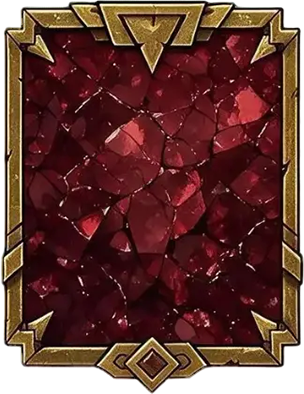
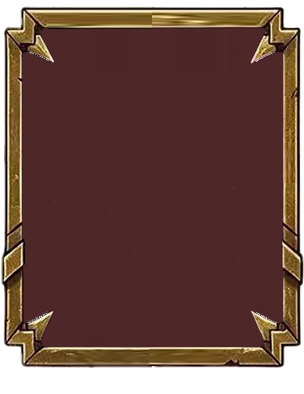
更新商店与自动制造 UI、地图 Prefab，并新增标题/士兵图标资源与 SPEC。

diff --git a/Gravedigger2026/Assets/Scripts/UI/ShopStageRootView.cs b/Gravedigger2026/Assets/Scripts/UI/ShopStageRootView.cs
@@ -47,6 +47,12 @@ namespace Gravedigger2026.UI
         private const int ShopConfirmSortingOrder = 201;
         private const int MaxOwnedEquipIcons = 6;
 
+        /// <summary>Unsold OfferSlot root Image: opaque pure white (UI-026).</summary>
+        private static readonly Color OfferSlotAvailableColor = Color.white;
+
+        /// <summary>Sold/disabled ColorTint: gray RGB only, alpha must stay 1 (no fade).</summary>
+        private static readonly Color OfferSlotSoldDisabledColor = new Color(0.78431374f, 0.78431374f, 0.78431374f, 1f);
+
         [SerializeField] private Canvas _canvas;
         [SerializeField] private Text _spiritText;
         [SerializeField] private Text _equipSummaryText;
@@ -426,12 +432,11 @@ namespace Gravedigger2026.UI
                 slotRect.offsetMax = Vector2.zero;
 
                 var slotBg = GetOrAdd<Image>(slot);
-                slotBg.color = new Color(0.15f, 0.18f, 0.23f, 0.95f);
+                slotBg.color = OfferSlotAvailableColor;
                 slotBg.raycastTarget = true;
 
                 var buyButton = GetOrAdd<Button>(slot);
-                buyButton.transition = Selectable.Transition.ColorTint;
-                buyButton.targetGraphic = slotBg;
+                ConfigureOfferSlotBuyButton(buyButton, slotBg);
 
                 var iconGo = EnsureChild("Icon", slot.transform);
                 var iconRect = iconGo.GetComponent<RectTransform>();
@@ -607,15 +612,16 @@ namespace Gravedigger2026.UI
                 var isSold = offer.IsSold;
 
                 slotUi.SoldText.gameObject.SetActive(isSold && !isEmpty);
-                slotUi.BuyButton.interactable = !isEmpty && !isSold;
 
-                var slotBg = slotUi.Root.GetComponent<Image>();
+                var slotBg = slotUi.Root != null ? slotUi.Root.GetComponent<Image>() : null;
+                ConfigureOfferSlotBuyButton(slotUi.BuyButton, slotBg);
                 if (slotBg != null)
                 {
-                    slotBg.color = offer.Category == ShopPoolItemCategory.A
-                        ? new Color(0.15f, 0.18f, 0.23f, 0.95f)
-                        : new Color(0.2f, 0.15f, 0.28f, 0.95f);
+                    // Base stays opaque white; sold look comes from ColorTint DisabledColor (alpha=1).
+                    slotBg.color = OfferSlotAvailableColor;
                 }
+
+                slotUi.BuyButton.interactable = !isEmpty && !isSold;
 
                 if (isEmpty)
                 {
@@ -1277,6 +1283,28 @@ namespace Gravedigger2026.UI
             var go = new GameObject(name, typeof(RectTransform));
             go.transform.SetParent(host, false);
             return go;
+        }
+
+        private static void ConfigureOfferSlotBuyButton(Button button, Image targetGraphic)
+        {
+            if (button == null)
+            {
+                return;
+            }
+
+            button.transition = Selectable.Transition.ColorTint;
+            if (targetGraphic != null)
+            {
+                button.targetGraphic = targetGraphic;
+            }
+
+            var colors = button.colors;
+            colors.normalColor = Color.white;
+            colors.highlightedColor = new Color(0.9607843f, 0.9607843f, 0.9607843f, 1f);
+            colors.pressedColor = new Color(0.78431374f, 0.78431374f, 0.78431374f, 1f);
+            colors.selectedColor = new Color(0.9607843f, 0.9607843f, 0.9607843f, 1f);
+            colors.disabledColor = OfferSlotSoldDisabledColor;
+            button.colors = colors;
         }
 
         private static T GetOrAdd<T>(GameObject go) where T : Component

diff --git a/Gravedigger2026/Assets/Scripts/Gameplay/AutoManufacture/AutoMfgSoldierCardView.cs b/Gravedigger2026/Assets/Scripts/Gameplay/AutoManufacture/AutoMfgSoldierCardView.cs
@@ -12,7 +12,7 @@ namespace Gravedigger2026.Gameplay.AutoManufacture
         public const float CardHeight = 200f;
 
         [SerializeField] private Image _background;
-        [SerializeField] private Text _questionMark;
+        [SerializeField] private Image _questionMark;
         [SerializeField] private Text _className;
         [SerializeField] private Text _classLevel;
         [SerializeField] private Image _idleThumbnail;
@@ -27,7 +27,7 @@ namespace Gravedigger2026.Gameplay.AutoManufacture
 
         public void RuntimeWire(
             Image background,
-            Text questionMark,
+            Image questionMark,
             Text className,
             Text classLevel,
             Image idleThumbnail,
@@ -52,7 +52,8 @@ namespace Gravedigger2026.Gameplay.AutoManufacture
 
             if (_questionMark != null)
             {
-                _questionMark.text = "?";
+                _questionMark.enabled = true;
+                _questionMark.preserveAspect = true;
                 _questionMark.gameObject.SetActive(true);
             }
 

diff --git a/Gravedigger2026/Assets/Scripts/Gameplay/AutoManufacture/AutoManufacturePresentationController.cs b/Gravedigger2026/Assets/Scripts/Gameplay/AutoManufacture/AutoManufacturePresentationController.cs
@@ -867,12 +867,17 @@ namespace Gravedigger2026.Gameplay.AutoManufacture
             thumb.enabled = false;
             thumb.raycastTarget = false;
 
-            var q = CreateText(go.transform, "Question", "?", 42, TextAnchor.MiddleCenter);
-            var qRt = q.GetComponent<RectTransform>();
+            var qGo = new GameObject("Question", typeof(RectTransform), typeof(Image));
+            qGo.transform.SetParent(go.transform, false);
+            var qRt = qGo.GetComponent<RectTransform>();
             qRt.anchorMin = new Vector2(0f, 0.35f);
             qRt.anchorMax = new Vector2(1f, 0.85f);
             qRt.offsetMin = Vector2.zero;
             qRt.offsetMax = Vector2.zero;
+            var q = qGo.GetComponent<Image>();
+            q.color = Color.white;
+            q.preserveAspect = true;
+            q.raycastTarget = false;
 
             var className = CreateText(go.transform, "ClassName", string.Empty, 32, TextAnchor.MiddleCenter);
             var cRt = className.GetComponent<RectTransform>();

diff --git a/SPEC_03_GameRules.md b/SPEC_03_GameRules.md
@@ -759,7 +759,7 @@ Settings click → Settings page hosting TechTree canvas (§3.13); other setting
 | UI-013 | 战斗模式选关 | 已定义（Demo 流水线） | 进入 Defend 阶段后：选 `BattleMode` + 关卡（该模式全部玩法配置）；模式1进保卫战 Prepare；模式2选 `PushMapGameplayConfig` 后进 §3.14 Prepare；验收见 §3.8 D-044 |
 | UI-014 | 玩法模式选择 | Demo 旁路 | 组件保留；**本 Demo 新建/进入不弹出**（直进 Mode2）；Mode1 入口后置；**勿与** UI-013 混淆；验收见 §3.8 D-045 |
 | UI-015 | 制造记录弹窗 | 已定义（Demo / Mode2） | Mode2 UM：「布阵」右侧「制造记录」打开只读 Modal；最近一批士兵摘要（名字/种族/职业）；空态「本批无士兵」；Mode1 **无**此入口；验收见 §3.8 D-054 |
-| UI-016 | 自动制造演出 | 已定义（Demo / Mode2） | AutoManufacture 阶段：底层全屏背景 `Title_AutoManufacture_1`（`AspectRatioFitter` EnvelopeParent 锁定长宽比铺满；其上 `Dim`）+ Step1 中央士兵行（默认 150×200，「?」42 + 职业名 32 + 其下 `Lv.{ClassLevel}` 24，横滑传送带）+ 上方 6 魔法书槽（120×160）；进入第一张从视口中心右侧一格滑入；Step2 逐兵加强后揭示：先 Taunt 一遍再循环默认 Idle（Camera+RT）；传送带左移不等 Taunt；每 3 兵加速；Step3 进 UM 后自动开布阵；0 兵跳过；Mode1 **无**；验收见 §3.8 D-055 |
+| UI-016 | 自动制造演出 | 已定义（Demo / Mode2） | AutoManufacture 阶段：底层全屏背景 `Title_AutoManufacture_1`（`AspectRatioFitter` EnvelopeParent 锁定长宽比铺满；其上 `Dim`）+ Step1 中央士兵行（默认 150×200，卡中央谜底图 `UnknownSoldier_1`（`Art/UI/Icons`）+ 职业名 32 + 其下 `Lv.{ClassLevel}` 24，横滑传送带）+ 上方 6 魔法书槽（120×160）；进入第一张从视口中心右侧一格滑入；Step2 逐兵加强后揭示：先 Taunt 一遍再循环默认 Idle（Camera+RT）；传送带左移不等 Taunt；每 3 兵加速；Step3 进 UM 后自动开布阵；0 兵跳过；Mode1 **无**；验收见 §3.8 D-055 |
 | UI-017 | 推图战斗结算 | 已定义（Demo / PushMap） | 胜负均弹：上部「胜利/失败」；中部「战斗耗时」「击杀怪物总数」；底中「继续」。失败 Continue → LevelSelectPanel；胜利 Continue → UI-018；见 §3.14 |
 | UI-018 | 推图奖励弹窗 | 已定义（Demo / PushMap） | 仅展示本场已入账：`StageExpReward` + 占领 `CaptureLoot` 汇总；`CaptureLoot` 先经 `ItemCatalogConfig` 解析为统一道具展示名/图标来源；无额外发放；底中「继续」→ 关闭后打开 LevelSelectPanel；见 §3.14 |
 | UI-019 | GM 发放列表 | 已定义（Demo GM） | Prefab `GmGrantListPanel`（InSaveShell 子级；布局对齐 UI-008）；Tools「增加主角装备」/「增加魔法书」打开；按钮文案 DisplayName（空则 Id）；装备点行→嵌套 LevelPicker（等级按钮）→`DebugGrantAtLevel`；魔法书点一次 `TryEquip`；关闭按钮；验收见 §3.8 D-061 |
@@ -769,7 +769,7 @@ Settings click → Settings page hosting TechTree canvas (§3.13); other setting
 | UI-023 | 魔法书槽弹窗 | 已定义（Demo） | InSaveShell 左下「魔法书」打开居中 Modal（同 UI-022 壳）；嵌套共享 `Assets/Prefabs/AutoManufacture/BookRow.prefab`（6×`BookSlot_0`…`_5`，120×160）；下标 **0→5 = 左→右**（与 UI-016 Step2 启动顺序相同）；每个槽位 `Icon` 从 `Resources/UI/MagicBooks/{IconAssetId}` 加载（`Resources.Load<Sprite>`，缺/空则不显示）；左键拖拽任意两槽 `SpecialEquipSlotsService.TrySwap`（含空槽=搬书）；成功立即 persist + `Changed`；左键点占用槽 → 该槽正下方浮动「删除」（空槽不出现；再点同一槽收起；拖拽开始隐藏）；点「删除」须二次确认（`ConfirmDialog`，`sortingOrder` 110）；确认后 `TryUnequip` 清该槽（**不补位**；无仓库=从当前存档删除；不可恢复）立即 persist + `Changed`；AM 演出 BookRow 订阅 `Changed` 同步；**无**独立魔法书仓库；装入仍 Tools GM `TryEquip`（UI-019）；Mode1/Mode2 均有；验收见 §3.8 D-068 / D-072 |
 | UI-024 | 运行时光标 | 已定义（Demo） | 整段 Play（Boot 登录主界面起）硬件指针 = `Assets/Art/UI/Cursor.png`；`PlayerSettings.defaultCursor` + hotspot 对齐锁尖（贴图左上）；**不**隐藏系统鼠标；Dig 圆圈仅作范围指示 |
 | UI-025 | 战斗技能图标 | 已定义（Demo / PushMap） | CombatSkillIcon：头顶瞬时 35×35 静止 0.6s 后世界 +Z 上飘 0.3s 淡出；同兵右排间距 4px；脚下持续 20×20；图标 `Resources/UI/Skills/{SkillId}`（缺图空框）；验收 D-071；Defend **无** |
-| UI-026 | Mode2 商店全屏界面 | 已定义（Demo / Mode2） | 全屏 Prefab `Assets/Prefabs/Shop/ShopStageRoot.prefab`（内容区 stretch 铺满；运行时实例化/销毁）。底层全屏背景 `Title_Shop_1`（`AspectRatioFitter` EnvelopeParent 锁定长宽比铺满；其上半透明 `ShopBackdrop` Dim；`ShopBox` 为透明内容容器）。**双入口：** ① Mode2 关卡 Stage1 `GameplayType=Shop`（`ShopStageModule`；关闭 → `TryAdvanceStage`）；② InSaveShell 左下「商店」局外 overlay（关闭回壳、不推进阶段；Shop 阶段已开则 no-op）。布局：左侧「玩家信息」（精魂总值 `SpiritEssence`、`EquipSummaryText`/`MagicBookSummaryText` 占用摘要、其下已拥有装备/魔法书 ICON；点占用 ICON 在图标下方出现「出售」+ `SellPrice`，确认后出售入账精魂，见 D-076）；右侧「待售商品」（共 6 项：slot0..2 归类 A 装备、slot3..5 归类 B 魔法书；每项显示道具图标+道具名+精魂售价，支持点击购买；图标加载同 §3.5：A→`Resources/UI/Equipment/{IconAssetId}`、B→`Resources/UI/MagicBooks/{IconAssetId}`；购买成功后该 slot 标记已售/禁用且不自动刷新）。下侧「刷新商品」按钮显示当前刷新价格并支持手动刷新递进定价；每次刷新重新生成 6 项（不足留空、不补齐）。商店在「新关卡解锁」时自动刷新一次并重置刷新价格进度。验收见 §3.8 D-075 / D-076。 |
+| UI-026 | Mode2 商店全屏界面 | 已定义（Demo / Mode2） | 全屏 Prefab `Assets/Prefabs/Shop/ShopStageRoot.prefab`（内容区 stretch 铺满；运行时实例化/销毁）。底层全屏背景 `Title_Shop_1`（`AspectRatioFitter` EnvelopeParent 锁定长宽比铺满；其上半透明 `ShopBackdrop` Dim；`ShopBox` 为透明内容容器）。**双入口：** ① Mode2 关卡 Stage1 `GameplayType=Shop`（`ShopStageModule`；关闭 → `TryAdvanceStage`）；② InSaveShell 左下「商店」局外 overlay（关闭回壳、不推进阶段；Shop 阶段已开则 no-op）。布局：左侧「玩家信息」（精魂总值 `SpiritEssence`、`EquipSummaryText`/`MagicBookSummaryText` 占用摘要、其下已拥有装备/魔法书 ICON；点占用 ICON 在图标下方出现「出售」+ `SellPrice`，确认后出售入账精魂，见 D-076）；右侧「待售商品」（共 6 项：slot0..2 归类 A 装备、slot3..5 归类 B 魔法书；每项显示道具图标+道具名+精魂售价，支持点击购买；图标加载同 §3.5：A→`Resources/UI/Equipment/{IconAssetId}`、B→`Resources/UI/MagicBooks/{IconAssetId}`；购买成功后该 slot 标记已售/禁用且不自动刷新）。**OfferSlot 着色：** 未购根 Image 恒为纯白不透明 `Color.white`；已购仅通过 ColorTint 变色（`DisabledColor` alpha=1），**禁止**半透明淡出。下侧「刷新商品」按钮显示当前刷新价格并支持手动刷新递进定价；每次刷新重新生成 6 项（不足留空、不补齐）。商店在「新关卡解锁」时自动刷新一次并重置刷新价格进度。验收见 §3.8 D-075 / D-076。 |
 | UI-027 | 登录主界面 | 已定义（Demo） | Prefab `TitleMenuPanel`（`MetaCanvas` 子级）；共享 `TitleScreenBackground`（Sprite 源 `Art/UI/Meta/Title/`）；顶中游戏名 Image `GameName`（`Title_GameName.png`）；主按钮双态（开始/继续）→ SaveSelect；**设置 → UI-028**；读取存档/开发者介绍 → Tips「还未制作」；右下版本 Text；Title BGM 随机 |
 | UI-028 | 登录设置面板 | 已定义（Demo） | Prefab `TitleSettingsPanel`（`MetaCanvas` 子级；对齐 UI-008：全屏遮罩 + 中框 + 关闭；`sortingOrder` ≥ 100）；页签首期仅 **「显示」**：分辨率列表（`Screen.resolutions` 按宽×高去重降序，文案 `1920 × 1080`）+ 显示模式三选一（窗口 / 无边框全屏 / 独占全屏）；点 **「应用」** 才 `Screen.SetResolution` 并写机台级 PlayerPrefs（关闭不提交草稿）；Boot 读盘应用；**不**挂科技树；与 UI-007 分离 |
 | UI-029 | 难度选择宿主 | 已定义（Demo） | Prefab 内 `DifficultySelectHost`（`InSaveShellPanel` 中心面）；收缩三栏普通/困难/地狱；仅普通可展开；展开后中央地图区嵌 UI-008；困难/地狱变暗或 Toast「还未制作」；难度不改玩法；进档默认打开；独立壳 Prefab `Assets/Prefabs/Meta/InSaveShellPanel.prefab`；验收 D-081 |
@@ -793,7 +793,7 @@ Settings click → Settings page hosting TechTree canvas (§3.13); other setting
 | UI-013 | Battle mode/level select | Defined (Demo pipeline) | After entering Defend: pick `BattleMode` + level (all configs for mode); Mode1 → Defend Prepare; Mode2 pick `PushMapGameplayConfig` → §3.14 Prepare; accept §3.8 D-044 |
 | UI-014 | Campaign mode select | Demo bypass | Component retained; **not shown** on this Demo create/enter (straight Mode2); Mode1 entry deferred; **not** UI-013; accept §3.8 D-045 |
 | UI-015 | Manufacture record popup | Defined (Demo / Mode2) | Mode2 UM: "Manufacture Record" to the right of Formation opens read-only Modal; last-batch summaries (name/race/class); empty 「本批无士兵」; Mode1 has **no** entry; accept §3.8 D-054 |
-| UI-016 | AutoManufacture presentation | Defined (Demo / Mode2) | AutoManufacture stage: bottom full-screen background `Title_AutoManufacture_1` (`AspectRatioFitter` EnvelopeParent keep aspect cover; `Dim` above) + Step1 center soldier row (default 150×200, "?" 42 + class name 32 + `Lv.{ClassLevel}` 24 below, conveyor scroll) + 6 MagicBook slots above (120×160); enter: first card slides from one pitch right of viewport center; Step2 amplify then reveal: Taunt once then loop default Idle (Camera+RT); conveyor does not wait for Taunt; +25% speed every 3; Step3 enter UM then auto-open Formation; 0 craft skips; Mode1 **none**; accept §3.8 D-055 |
+| UI-016 | AutoManufacture presentation | Defined (Demo / Mode2) | AutoManufacture stage: bottom full-screen background `Title_AutoManufacture_1` (`AspectRatioFitter` EnvelopeParent keep aspect cover; `Dim` above) + Step1 center soldier row (default 150×200, mystery portrait `UnknownSoldier_1` (`Art/UI/Icons`) + class name 32 + `Lv.{ClassLevel}` 24 below, conveyor scroll) + 6 MagicBook slots above (120×160); enter: first card slides from one pitch right of viewport center; Step2 amplify then reveal: Taunt once then loop default Idle (Camera+RT); conveyor does not wait for Taunt; +25% speed every 3; Step3 enter UM then auto-open Formation; 0 craft skips; Mode1 **none**; accept §3.8 D-055 |
 | UI-017 | PushMap battle settlement | Defined (Demo / PushMap) | Always on win/lose: top Victory/Defeat; mid combat time + monsters killed; bottom Continue. Fail Continue → LevelSelectPanel; Win Continue → UI-018; §3.14 |
 | UI-018 | PushMap reward popup | Defined (Demo / PushMap) | Show already-credited StageExpReward + CaptureLoot aggregate only; `CaptureLoot` first resolves through `ItemCatalogConfig` for shared display-name/icon sourcing; no extra grants; bottom Continue → LevelSelectPanel; §3.14 |
 | UI-019 | GM grant list | Defined (Demo GM) | Prefab `GmGrantListPanel` under InSaveShell (layout aligned with UI-008); Tools Grant Equipment / Grant MagicBook; label DisplayName (else Id); equipment pick → nested LevelPicker (level buttons) → `DebugGrantAtLevel`; MagicBook one click `TryEquip`; close button; accept §3.8 D-061 |
@@ -803,7 +803,7 @@ Settings click → Settings page hosting TechTree canvas (§3.13); other setting
 | UI-023 | MagicBook slots popup | Defined (Demo) | InSaveShell bottom-left MagicBook opens centered Modal (same shell as UI-022); nested shared `Assets/Prefabs/AutoManufacture/BookRow.prefab` (6×`BookSlot_0`…`_5`, 120×160); index **0→5 = left→right** (same start order as UI-016 Step2); each slot `Icon` loaded from `Resources/UI/MagicBooks/{IconAssetId}` (`Resources.Load<Sprite>`; missing/empty => hidden); LMB-drag any two slots `SpecialEquipSlotsService.TrySwap` (empty slot = move book); success persists immediately + `Changed`; LMB click occupied slot → floating Delete under that slot (empty slots hide it; click same slot again hides; BeginDrag hides); Delete requires confirm (`ConfirmDialog`, `sortingOrder` 110); confirm → `TryUnequip` clears that index (**no compact**; no warehouse = delete from current save; irreversible) persist immediately + `Changed`; AM presentation BookRow subscribes `Changed`; **no** MagicBook warehouse; grant still Tools GM `TryEquip` (UI-019); Mode1 and Mode2; accept §3.8 D-068 / D-072 |
 | UI-024 | Runtime pointer | Defined (Demo) | Whole-Play (from Boot title menu) hardware cursor = `Assets/Art/UI/Cursor.png`; `PlayerSettings.defaultCursor` + hotspot at shovel tip (texture top-left); do **not** hide OS cursor; Dig ring is range overlay only |
 | UI-025 | Combat skill icon | Defined (Demo / PushMap) | CombatSkillIcon: overhead 35×35 holds 0.6s then world +Z rise 0.3s fade; stack screen-right 4px; persist 20×20 at feet; icons `Resources/UI/Skills/{SkillId}` (missing → empty frame); accept D-071; Defend **none** |
-| UI-026 | Mode2 shop full-screen UI | Defined (Demo / Mode2) | Full-screen Prefab `Assets/Prefabs/Shop/ShopStageRoot.prefab` (content stretch-fills; runtime instantiate/destroy). Bottom full-screen background `Title_Shop_1` (`AspectRatioFitter` EnvelopeParent keep-aspect cover; semi-transparent `ShopBackdrop` Dim above; `ShopBox` is a transparent content host). **Dual entry:** (1) Mode2 Level Stage1 `GameplayType=Shop` (`ShopStageModule`; close → `TryAdvanceStage`); (2) InSaveShell bottom-left Shop overlay (close returns to shell, does not advance; no-op while Shop stage is open). Layout: left "Player Info" (`SpiritEssence`, `EquipSummaryText`/`MagicBookSummaryText`, owned equipment/MagicBook ICONs below; click occupied ICON → Sell + `SellPrice` under it, confirm to sell for Spirit, D-076); right "Shop Offers" (6 offers total: slot0..2 category A equipment, slot3..5 category B magicbooks; each shows item icon + item name + Spirit price and supports click-to-buy; successful purchase marks that slot sold/disabled and does not auto-refresh). Bottom "Refresh Offers" button shows the current refresh price and supports manual refresh-price progression; each refresh regenerates all 6 offers (leave empty if insufficient, no backfill). The shop auto-refreshes once on each "new level unlock" and resets the refresh-price progression. Accept §3.8 D-075 / D-076. |
+| UI-026 | Mode2 shop full-screen UI | Defined (Demo / Mode2) | Full-screen Prefab `Assets/Prefabs/Shop/ShopStageRoot.prefab` (content stretch-fills; runtime instantiate/destroy). Bottom full-screen background `Title_Shop_1` (`AspectRatioFitter` EnvelopeParent keep-aspect cover; semi-transparent `ShopBackdrop` Dim above; `ShopBox` is a transparent content host). **Dual entry:** (1) Mode2 Level Stage1 `GameplayType=Shop` (`ShopStageModule`; close → `TryAdvanceStage`); (2) InSaveShell bottom-left Shop overlay (close returns to shell, does not advance; no-op while Shop stage is open). Layout: left "Player Info" (`SpiritEssence`, `EquipSummaryText`/`MagicBookSummaryText`, owned equipment/MagicBook ICONs below; click occupied ICON → Sell + `SellPrice` under it, confirm to sell for Spirit, D-076); right "Shop Offers" (6 offers total: slot0..2 category A equipment, slot3..5 category B magicbooks; each shows item icon + item name + Spirit price and supports click-to-buy; successful purchase marks that slot sold/disabled and does not auto-refresh). **OfferSlot tint:** unsold root Image stays opaque pure white (`Color.white`); sold uses ColorTint RGB only (`DisabledColor` alpha=1) — **no** semi-transparent fade. Bottom "Refresh Offers" button shows the current refresh price and supports manual refresh-price progression; each refresh regenerates all 6 offers (leave empty if insufficient, no backfill). The shop auto-refreshes once on each "new level unlock" and resets the refresh-price progression. Accept §3.8 D-075 / D-076. |
 | UI-027 | Title / login menu | Defined (Demo) | Prefab `TitleMenuPanel` under `MetaCanvas`; shared `TitleScreenBackground` (sprites under `Art/UI/Meta/Title/`); top-center game-name Image `GameName` (`Title_GameName.png`); primary dual-state (Start/Continue) → SaveSelect; **Settings → UI-028**; Load save / Credits → Tips「还未制作」; bottom-right version Text; random Title BGM |
 | UI-028 | Title settings panel | Defined (Demo) | Prefab `TitleSettingsPanel` under `MetaCanvas` (align UI-008: full-screen dim + center box + close; `sortingOrder` ≥ 100); first tab **Display** only: resolution list (`Screen.resolutions` dedupe by WxH descending, label `1920 × 1080`) + window mode tri-state (Windowed / Borderless / Exclusive); **Apply** commits `Screen.SetResolution` + machine-level PlayerPrefs (Close discards draft); Boot applies saved; **no** TechTree; separate from UI-007 |
 | UI-029 | Difficulty select host | Defined (Demo) | `DifficultySelectHost` inside `InSaveShellPanel`; collapsed three columns Normal/Hard/Hell; Normal only expandable; map hosts UI-008; Hard/Hell dim or Toast; no gameplay number change; default on enter; standalone Prefab `Assets/Prefabs/Meta/InSaveShellPanel.prefab`; accept D-081 |
@@ -872,7 +872,7 @@ Manual shell state switch is **TBD** (must not equate Tools Level entry to a fiv
 | D-052 | Mode2：批结束后清空布阵，按 `PlacementOrder` + `FormationClassZone` 自动上阵（碰撞挤开）；再进 UM | P1 | 已实现（AM-06 方案 A：区内螺旋采样 + BodyRadius；`FormationClassZone` **IsoDiamond**（同 WalkSurface；废止 OBB/IsoTileYaw）；仅本批 Id；手验见 AM-08 / FZ-01～02） |
 | D-053 | Mode2 UM：隐藏手动制造；保留升级 Modal 与可编辑布阵；控制力 HUD 屏蔽；布阵内 `CompleteButton`（SoldierBar 上右，UM/Prepare 均显示；UM 接线结束阶段）；Prepare `StartBattleButton` 叠于 Complete 正上方 | P1 | 已实现（方案 C：`UpgradeManufactureStageRoot_Mode2` + `FormationEditorRoot_Mode2`；Catalog 按 CampaignMode Resolve；手验见 AM-08；Complete 见 Mode2 差分） |
 | D-054 | Mode2 UM：布阵右侧「制造记录」打开只读弹窗；展示最近一批 AutoManufacture 士兵摘要（名字/种族/职业）；0 兵空态「本批无士兵」；下一批覆盖；同档再进仍可见；Mode1 无此按钮 | P1 | 已实现（方案 A：`AutoManufactureBatchRecordService` + Mode2 Modal；`UmAssetBuilder` Mode2 追加 / 运行时 Ensure） |
-| D-055 | Mode2 AutoManufacture 演出（UI-016）：批末可见 Step1 士兵行+6 书槽；进入时第一张从视口水平中心右侧一格滑入中心；Step2 逐兵加强/单槽脉冲套该书/书槽峰值同步士兵卡 VisualStyle live preview（Camera+RT；未烘进仍「?」）/6 槽结束揭示（Taunt 一遍→循环默认 Idle）后整行左移一格（末张不再移；传送带不等 Taunt）；每 3 兵加速；播完后按 final ClassId 上阵再进 UM 并自动开布阵；0 兵 Tips+跳过演出且不自动开布阵；Mode1 无此 UI | P1 | **更新**（Step2 脉冲峰值同步 VisualStyle 预览；方案 B Camera+RT） |
+| D-055 | Mode2 AutoManufacture 演出（UI-016）：批末可见 Step1 士兵行+6 书槽；进入时第一张从视口水平中心右侧一格滑入中心；Step2 逐兵加强/单槽脉冲套该书/书槽峰值同步士兵卡 VisualStyle live preview（Camera+RT；未烘进仍谜底图 `UnknownSoldier_1`）/6 槽结束揭示（Taunt 一遍→循环默认 Idle）后整行左移一格（末张不再移；传送带不等 Taunt）；每 3 兵加速；播完后按 final ClassId 上阵再进 UM 并自动开布阵；0 兵 Tips+跳过演出且不自动开布阵；Mode1 无此 UI | P1 | **更新**（Step2 脉冲峰值同步 VisualStyle 预览；方案 B Camera+RT） |
 | D-056 | 士兵外观：`BodyAppearanceConfig.AppearanceId` 在 `Art/Characters/Appearances/{Id}/` **Art 就绪**（Controller + Idle Sprite）时，须有游戏 Prefab `Prefabs/Defend/Warriors/{Id}.prefab`（根+`Visual`）并绑定 Defend/UM Catalog；缺绑定则布阵/战斗/演出不显示该外观 | P1 | Done（WA-01 / 方案 B：`WarriorAppearancePrefabAssembler` From-Art + Catalog 并集刷新；已补 `App_0_*`/`App_4_41`/`App_5_51`，并扩展人/精/兽 `App_1_*`/`App_2_*`/`App_3_*`） |
 | D-057 | 样例 `Ground_*` 的 `FormationClassZone` 覆盖当前模式 `ClassConfig` **全部** ClassId（缺区→自动上阵留池）；Mode2 须含 `Class_DarkMage`/`Class_Guardian` 等 | P1 | 已实现（全量 ClassId 同步 + 样例 HalfExtents 锁定 `(3.85, 2)`：Ensure 读 Mode2 `Manufacture_ClassConfig`；已有区保留世界 XZ；缺补/表外删；未调用 GenerateAll） |
 | D-058 | Mode2 魔法书「战士强化」：装备 `MagicBook_WarriorEnhance` 后 AutoManufacture **Step2 该书槽脉冲**仅对 `Class_BaseWarrior` / `Class_Warrior` 将主属性 Base 增加躯体该维 Σ StatBonus 的 15%（可叠；种族不过滤）；其它职业不变；写入实例至彻底死亡；Dig HUD GM 可装备 | P1 | **更新**（生效点改为 Step2 单槽脉冲；职业含枯骨战士） |
@@ -942,7 +942,7 @@ Suggested order: D-001–D-004 (Meta) → D-010 (Level driver) → Dig → Upgra
 | D-052 | Mode2: after batch, clear formation; auto-deploy by `PlacementOrder` + `FormationClassZone` (separation); then enter UM | P1 | Done (AM-06 Approach A: in-zone spiral + BodyRadius; `FormationClassZone` **IsoDiamond** (same as WalkSurface; drop OBB/IsoTileYaw); batch Ids only; handcheck AM-08 / FZ-01–02) |
 | D-053 | Mode2 UM: hide manual manufacture; keep upgrade Modal + editable formation; hide ControlPower HUD; in-editor `CompleteButton` (above SoldierBar right; visible UM+Prepare; UM wires stage end); Prepare `StartBattleButton` stacked above Complete | P1 | Done (Approach C: `UpgradeManufactureStageRoot_Mode2` + `FormationEditorRoot_Mode2`; Catalog Resolve by CampaignMode; handcheck AM-08; Complete in Mode2 diffs) |
 | D-054 | Mode2 UM: "Manufacture Record" to the right of Formation opens read-only popup; last AutoManufacture batch summaries (name/race/class); empty 「本批无士兵」; next batch overwrites; survives re-enter save; Mode1 has no button | P1 | Done (Approach A: `AutoManufactureBatchRecordService` + Mode2 Modal; `UmAssetBuilder` Mode2 append / runtime Ensure) |
-| D-055 | Mode2 AutoManufacture presentation (UI-016): after batch show Step1 soldier row + 6 book slots; enter: first card slides from one pitch right of viewport center; Step2 per-soldier amplify / per-slot pulse applies that book / pulse peak syncs soldier-card VisualStyle live preview (Camera+RT; "?" until baked) / after 6 slots reveal (Taunt once → loop default Idle) then row shifts left one pitch (last card stays; conveyor does not wait for Taunt); +25% speed every 3; then deploy by final ClassId → UM + auto-open Formation; 0 craft Tips + skip presentation and no auto-open; Mode1 has no UI | P1 | **Updated** (Step2 pulse peak syncs VisualStyle preview; Approach B Camera+RT) |
+| D-055 | Mode2 AutoManufacture presentation (UI-016): after batch show Step1 soldier row + 6 book slots; enter: first card slides from one pitch right of viewport center; Step2 per-soldier amplify / per-slot pulse applies that book / pulse peak syncs soldier-card VisualStyle live preview (Camera+RT; mystery portrait `UnknownSoldier_1` until baked) / after 6 slots reveal (Taunt once → loop default Idle) then row shifts left one pitch (last card stays; conveyor does not wait for Taunt); +25% speed every 3; then deploy by final ClassId → UM + auto-open Formation; 0 craft Tips + skip presentation and no auto-open; Mode1 has no UI | P1 | **Updated** (Step2 pulse peak syncs VisualStyle preview; Approach B Camera+RT) |
 | D-056 | Soldier visuals: when `BodyAppearanceConfig.AppearanceId` has Art-ready bake under `Art/Characters/Appearances/{Id}/` (Controller + Idle Sprite), game Prefab `Prefabs/Defend/Warriors/{Id}.prefab` (root+`Visual`) must exist and bind Defend/UM catalogs; missing bind → no visual in formation/combat/presentation | P1 | Done (WA-01 / Approach B: `WarriorAppearancePrefabAssembler` From-Art + union catalog refresh; added `App_0_*`/`App_4_41`/`App_5_51`, extended Human/Elf/Orc `App_1_*`/`App_2_*`/`App_3_*`) |
 | D-057 | Sample `Ground_*` `FormationClassZone` covers **every** current-mode `ClassConfig.ClassId` (no zone → auto-deploy stays in pool); Mode2 must include `Class_DarkMage`/`Class_Guardian` etc. | P1 | Done (full ClassId sync + sample HalfExtents locked `(3.85, 2)`: Ensure reads Mode2 `Manufacture_ClassConfig`; existing zones keep world XZ; add missing / remove orphans; no GenerateAll) |
 | D-058 | Mode2 MagicBook Warrior Enhance: equipped `MagicBook_WarriorEnhance` on AutoManufacture **Step2 that slot's pulse** adds 15% of body Σ StatBonus(class PrimaryStat) to Base for `Class_BaseWarrior` / `Class_Warrior` only (stackable; no race filter); other classes unchanged; baked until PermanentDeath; Dig HUD GM can equip | P1 | **Updated** (apply point → Step2 per-slot pulse; includes bone warrior) |
@@ -3590,8 +3590,8 @@ Demo 样例：`MagicBook_WarriorEnhance`→`Style_WarriorGlow` P20 Add1；四本
 
 | 步骤 | 规则 |
 |------|------|
-| Step1 | 画面中央横滑士兵行；每卡默认 **宽 150 × 高 200**（Prefab 手改以 `SoldierCardTemplate` 实际宽度为准）；卡中央「?」字号 **42** + 其下职业名（造兵时双手职业，尚未套书）字号 **32** + 再下 `Lv.{ClassLevel}` 字号 **24**；士兵行**上方** 6 个魔法书方框（各 **120×160**）。**传送带：** 格距 `pitch` = 实际卡宽 + Content spacing；Content 左垫 `(viewportW−cardW)/2+pitch`、右垫 `(viewportW−cardW)/2`，使首/末卡都能对齐 `SoldierScroll` 视口水平中心（Prefab 行宽铺满参考分辨率时 = 画面水平中心）。进入时 scroll=0（第一张在中心右侧一格）再滑到卡 0 居中 |
-| Step2 | 以单兵为单位：该兵已在视口水平中心时播 6 书框**依次**伸缩；**缩放到峰值时**对该兵执行**仅该槽**魔法书；士兵卡立刻刷新职业名/`Lv.N`；**若 apply 后实例已烘进 VisualStyle（材质通道或放大通道），同一峰值时刻**当前聚焦士兵卡的 Camera+RT 预览 **立即** 套用 `WarriorAllIn1StyleView` + `VisualModelScale`（与 §6b 世界 Instantiate 一致；尚未烘进则仍保持「?」）；卡上临时字「加强」；该兵 6 槽结束后：若 Step2 中已显示 live preview → **仅补播** Taunt→Idle；否则「?」→ 揭示套书后外观（见下）；完成后若有下一张则整行向左平移一格（`pitch`），右侧下一张滑至视口水平中心；末张完成后不再平移；每完成 **3** 兵速率 × `1.25^floor(completed/3)` |
+| Step1 | 画面中央横滑士兵行；每卡默认 **宽 150 × 高 200**（Prefab 手改以 `SoldierCardTemplate` 实际宽度为准）；卡中央谜底图 **`UnknownSoldier_1`**（`Art/UI/Icons`；节点 `Question` Image，`preserveAspect`）+ 其下职业名（造兵时双手职业，尚未套书）字号 **32** + 再下 `Lv.{ClassLevel}` 字号 **24**；士兵行**上方** 6 个魔法书方框（各 **120×160**）。**传送带：** 格距 `pitch` = 实际卡宽 + Content spacing；Content 左垫 `(viewportW−cardW)/2+pitch`、右垫 `(viewportW−cardW)/2`，使首/末卡都能对齐 `SoldierScroll` 视口水平中心（Prefab 行宽铺满参考分辨率时 = 画面水平中心）。进入时 scroll=0（第一张在中心右侧一格）再滑到卡 0 居中 |
+| Step2 | 以单兵为单位：该兵已在视口水平中心时播 6 书框**依次**伸缩；**缩放到峰值时**对该兵执行**仅该槽**魔法书；士兵卡立刻刷新职业名/`Lv.N`；**若 apply 后实例已烘进 VisualStyle（材质通道或放大通道），同一峰值时刻**当前聚焦士兵卡的 Camera+RT 预览 **立即** 套用 `WarriorAllIn1StyleView` + `VisualModelScale`（与 §6b 世界 Instantiate 一致；尚未烘进则仍保持谜底图）；卡上临时字「加强」；该兵 6 槽结束后：若 Step2 中已显示 live preview → **仅补播** Taunt→Idle；否则谜底图 → 揭示套书后外观（见下）；完成后若有下一张则整行向左平移一格（`pitch`），右侧下一张滑至视口水平中心；末张完成后不再平移；每完成 **3** 兵速率 × `1.25^floor(completed/3)` |
 | Step3 | 全部士兵 Step2 完成后 **先按最终 ClassId 自动上阵**，再进 `UpgradeManufacture` 并**自动打开**布阵编辑器 |
 
 **士兵卡揭示（IdleThumb；方案 B）：** Overlay Canvas 不能直接显示 `SpriteRenderer`。每张已揭示卡在画外 bay Instantiate 套书后 `AppearanceId` Prefab，俯视正交 Camera（`Euler(90,0,0)`，`DirIndex=2` 南）渲染到 RenderTexture，赋给 IdleThumb 上 `RawImage`。Step2 书槽脉冲峰值且 VisualStyle 已烘进时可 **提前** 显示该 live preview（Idle，不播 Taunt）；6 槽结束再播一遍 Creator Trigger **`Taunt`**，结束后固定循环默认 Idle（`IdleBT`；清 `UseIdle2`/`UseIdle3`/`UseIdle4`）。已烘 `VisualStyle` 与 `VisualModelScale` 按世界 Instantiation 套用。传送带 `revealHold` **不等** Taunt 结束。无 Animator → 仍采样 Idle Sprite。
@@ -3799,8 +3799,8 @@ Rules run the batch synchronously (pick→craft without books→flush→batch re
 
 | Step | Rules |
 |------|-------|
-| Step1 | Center soldier row (default 150×200; Prefab hand-tune uses actual `SoldierCardTemplate` width); "?" 42 + hand ClassName 32 + `Lv.{ClassLevel}` 24 (pre-book); 6 MagicBook frames 120×160 above. **Conveyor:** pitch = actual card width + Content spacing; Content left pad `(viewportW−cardW)/2+pitch`, right pad `(viewportW−cardW)/2` so first/last cards can align to `SoldierScroll` viewport horizontal center (full-width Prefab row = screen horizontal center). Enter at scroll=0 (first card one pitch right of center) then slide to card 0 centered |
-| Step2 | Per soldier: while that card is at viewport horizontal center, pulse 6 books left→right; **at peak scale** apply **only that slot** to the focused soldier; refresh card class/`Lv.N`; **if apply baked VisualStyle (material and/or scale channel), at that same peak** refresh the focused card Camera+RT preview via `WarriorAllIn1StyleView` + `VisualModelScale` (same as §6b world Instantiate; keep "?" until baked); 「加强」 label; after 6 slots: if live preview already shown in Step2 → **Taunt only**; else "?" → reveal post-book appearance (below); if another card remains, shift the row left one pitch so the next card centers; last card stays; every 3 soldiers rate × `1.25^floor(completed/3)` |
+| Step1 | Center soldier row (default 150×200; Prefab hand-tune uses actual `SoldierCardTemplate` width); mystery portrait **`UnknownSoldier_1`** (`Art/UI/Icons`; node `Question` Image, `preserveAspect`) + hand ClassName 32 + `Lv.{ClassLevel}` 24 (pre-book); 6 MagicBook frames 120×160 above. **Conveyor:** pitch = actual card width + Content spacing; Content left pad `(viewportW−cardW)/2+pitch`, right pad `(viewportW−cardW)/2` so first/last cards can align to `SoldierScroll` viewport horizontal center (full-width Prefab row = screen horizontal center). Enter at scroll=0 (first card one pitch right of center) then slide to card 0 centered |
+| Step2 | Per soldier: while that card is at viewport horizontal center, pulse 6 books left→right; **at peak scale** apply **only that slot** to the focused soldier; refresh card class/`Lv.N`; **if apply baked VisualStyle (material and/or scale channel), at that same peak** refresh the focused card Camera+RT preview via `WarriorAllIn1StyleView` + `VisualModelScale` (same as §6b world Instantiate; keep mystery portrait until baked); 「加强」 label; after 6 slots: if live preview already shown in Step2 → **Taunt only**; else mystery portrait → reveal post-book appearance (below); if another card remains, shift the row left one pitch so the next card centers; last card stays; every 3 soldiers rate × `1.25^floor(completed/3)` |
 | Step3 | After all Step2 → **DeployBatch by final ClassId** → enter UM and auto-open FormationEditor |
 
 **Card reveal (IdleThumb; Approach B):** Overlay Canvas cannot show `SpriteRenderer`. Each revealed card instantiates the post-book `AppearanceId` Prefab in an off-screen bay; a top-down ortho Camera (`Euler(90,0,0)`, `DirIndex=2` South) renders to a RenderTexture on IdleThumb `RawImage`. Step2 may **early** show that live preview (Idle, no Taunt) when a book pulse peak bakes VisualStyle; after 6 slots play Creator Trigger **`Taunt`** once, then loop default Idle (`IdleBT`; clear `UseIdle2`/`UseIdle3`/`UseIdle4`). Baked `VisualStyle` and `VisualModelScale` apply as world Instantiate. Conveyor `revealHold` does **not** wait for Taunt. No Animator → sample Idle Sprite.

diff --git a/SPEC_00_Index.md b/SPEC_00_Index.md
@@ -1,7 +1,7 @@
 # Gravedigger2026 — SPEC 总索引 / SPEC Master Index
 
-**文档版本 / Document Version:** v0.83.41
-**最后更新 / Last Updated:** 2026-08-30
+**文档版本 / Document Version:** v0.83.43
+**最后更新 / Last Updated:** 2026-08-31
 **当前阶段 / Current Phase:** Demo 开发 / Demo development（Dig D-020 + UM D-030～D-032 + Defend D-040～D-044 + PushMap PM-01～PM-13 + ModeSelect 模式2 入口 + Mode2 AutoManufacture AM-03～08 闭环（D-050～D-053）+ Mode2 制造记录 D-054 + 可选 TechTree UI-012；大规模寻路方案 B：MP-01～MP-07；方案 B+ 草案：SoftCollision + CombatMoveMode（无 Follow）；士兵 GoalKind 脚下 Debug 标签；友军脚下绿圈 AllyFootCircle；追击/仇恨移速系数；魔法书「战士强化」D-058；主角装备规则 §3.16 + D-059 垂直 **完成**（PE-01～PE-04）+ 矿灯 D-060 **完成**（PE-05～PE-08）；魔法书 Step2 单槽节拍生效；Tools GM「添加士兵」D-064；Mode2 士兵栏悬浮框 UI-021 / D-065 **完成**；Mode2 士兵 AllIn1 `VisualStyle` 方案 A + 放大模型 `Style_ScaleModel` D-066 **完成**（VS-00～03）；InSaveShell 装备仓只读 UI-022 / D-067 **完成**（EM-01～02）+ 魔法书槽排序 UI-023 / D-068 **完成**（EM-03）+ 弹窗删除 D-072；士兵战斗 SkillCast `Skill_03` 连发 + `Skill_01` 格挡 + `Skill_02` 舒适 D-069 **完成**（SC-00/01/02/03）；技能 Icon 实现状态指示器 D-070 **完成**；战斗技能图标 CombatSkillIcon UI-025 / D-071 **完成**（SI-00～02）；士兵技能效果 Skill_04～12 EffectKind 登记制 D-073 **完成**（SE-00～09；issues `.scratch/soldier-skill-effects/`）；Mode2 商店全屏玩法类型 D-075（`GameplayType=Shop`，Stage1））  
 
 **套件维护路径：** `F:\CursorGame_Git\SPECandSKILL\Gravedigger2026\`  
@@ -65,6 +65,8 @@
 
 | 日期 | 版本 | 摘要（中文） |
 |------|------|-------------|
+| 2026-08-31 | v0.83.43 | UI-016 士兵卡谜底：`SoldierCardTemplate/Question` 由 Text「?」改为 Image `UnknownSoldier_1`（`Art/UI/Icons`）。同步 SPEC_03 §3.6/§3.8、SPEC_04 §6、`AutoMfgSoldierCardView` |
+| 2026-08-31 | v0.83.42 | UI-026 OfferSlot 着色：未购纯白不透明；已购仅 RGB 变色、禁用态 alpha=1（禁半透明）。同步 SPEC_03 §3.6、SPEC_04 §10、`ShopStageRootView`/`ShopStageRoot` |
 | 2026-08-30 | v0.83.41 | DigStageSummary：`Title` PosY=-50、FontSize=40；`Body` PosY=-110、FontSize=32。同步 `DigStageRoot`/`DigAssetBuilder` |
 | 2026-08-30 | v0.83.40 | DigStageSummary（UI-011）：`SummaryRoot` 改为 **1103×796**，Image=`UI_Kuang_09`、Color 纯白；`Title`/`Body` 文字纯黑。同步 SPEC_03 §3.6/§3.10、`DigStageRoot`/`DigAssetBuilder` |
 | 2026-08-30 | v0.83.39 | 雾贴图目录迁至 `Art/Maps/Fogs/`：`MapEdgeFogBuilder` / `DigAssetBuilder` 默认路径改为 `Assets/Art/Maps/Fogs/Fog_1.png`。同步 SPEC_03 §3.10、SPEC_04 §6/§9.2/§13、CONTEXT、Art/Maps README、spec-map |
@@ -407,6 +409,8 @@
 
 | Date | Version | Summary (English) |
 |------|---------|-------------------|
+| 2026-08-31 | v0.83.43 | UI-016 soldier-card mystery: `SoldierCardTemplate/Question` Text "?" → Image `UnknownSoldier_1` (`Art/UI/Icons`). Synced SPEC_03 §3.6/§3.8, SPEC_04 §6, `AutoMfgSoldierCardView` |
+| 2026-08-31 | v0.83.42 | UI-026 OfferSlot tint: unsold pure opaque white; sold RGB tint only, disabled alpha=1 (no fade). Synced SPEC_03 §3.6, SPEC_04 §10, `ShopStageRootView`/`ShopStageRoot` |
 | 2026-08-30 | v0.83.41 | DigStageSummary: `Title` PosY=-50, FontSize=40; `Body` PosY=-110, FontSize=32. Synced `DigStageRoot`/`DigAssetBuilder` |
 | 2026-08-30 | v0.83.40 | DigStageSummary (UI-011): `SummaryRoot` **1103×796**, Image=`UI_Kuang_09`, Color white; `Title`/`Body` text black. Synced SPEC_03 §3.6/§3.10, `DigStageRoot`/`DigAssetBuilder` |
 | 2026-08-30 | v0.83.39 | Fog sprites moved under `Art/Maps/Fogs/`: `MapEdgeFogBuilder` / `DigAssetBuilder` default path → `Assets/Art/Maps/Fogs/Fog_1.png`. Synced SPEC_03 §3.10, SPEC_04 §6/§9.2/§13, CONTEXT, Art/Maps README, spec-map |
